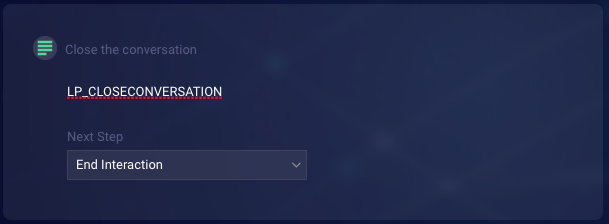
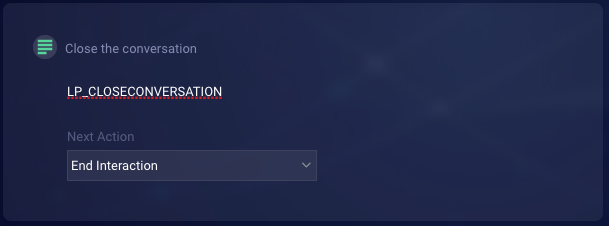
Update topic for Dialog Editor 2.0

diff --git a/pages/documents/ConversationalAI/ConversationBuilder/Dialogs/dialogs.md b/pages/documents/ConversationalAI/ConversationBuilder/Dialogs/dialogs.md
@@ -53,7 +53,7 @@ To disable context switching at the conversation start, you can add this code to
 ### Create a new dialog
 
 1. Open the bot.
-2. Click **New Dialog** in the lower-left corner.
+2. Click **Add Dialog** in the lower-left corner.
 3. In the dialog that appears, do the following:
     - **Dialog Name**: Enter a descriptive name for the dialog. Use a standard naming convention to make your dialogs more sortable and easier to find.
     - **Dialog Type**: Select the type of dialog; for help with this, see *Dialog types* farther above on this page.
@@ -64,11 +64,11 @@ To disable context switching at the conversation start, you can add this code to
 
 To close the current dialog, set the interaction's Next Step to "Close Dialog."
 
-<img class="fancyimage" style="width:600px" src="img/ConvoBuilder/nextStep_closeDialog.png">
+<img class="fancyimage" style="width:500px" src="img/ConvoBuilder/nextAction_closeDialog.png">
 
 Alternatively, add a Text statement that contains the special string "LP_CLOSEDIALOG." If the statement isn't the last interaction in the dialog, set its **Next Step** to "End Interaction" (not "Next Interaction").
 
-<img class="fancyimage" style="width:600px" src="img/ConvoBuilder/keyword_closeDialog.png">
+<img class="fancyimage" style="width:500px" src="img/ConvoBuilder/keyword_closeDialog.png">
 
 LP_CLOSEDIALOG is a system message; even though it appears in the Preview window, it isn't shown to the consumer when deployed.
 
@@ -79,11 +79,11 @@ These methods for closing the dialog **do** trigger a post-conversation [survey]
 
 To close the current conversation, set the interaction's Next Step to "Close Conversation."
 
-<img class="fancyimage" style="width:600px" src="img/ConvoBuilder/nextStep_closeConversation.png">
+<img class="fancyimage" style="width:500px" src="img/ConvoBuilder/nextAction_closeConv.png">
 
 Alternatively, add a Text statement that contains the special string "LP_CLOSECONVERSATION." If the statement isn't the last interaction in the dialog, set its **Next Step** to "End Interaction" (not "Next Interaction").
 
-<img class="fancyimage" style="width:600px" src="img/ConvoBuilder/keyword_closeConversation.png">
+<img class="fancyimage" style="width:500px" src="img/ConvoBuilder/keyword_closeConversation.png">
 
 LP_CLOSECONVERSATION is a system message; even though it appears in the Preview window, it isn't shown to the consumer when deployed.
 
